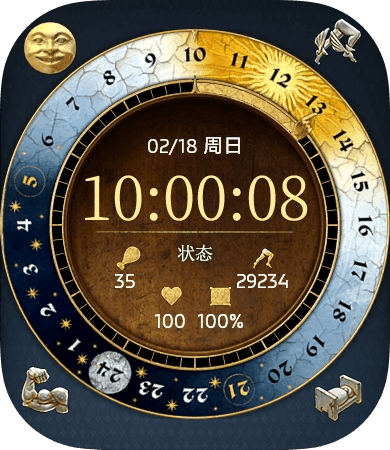
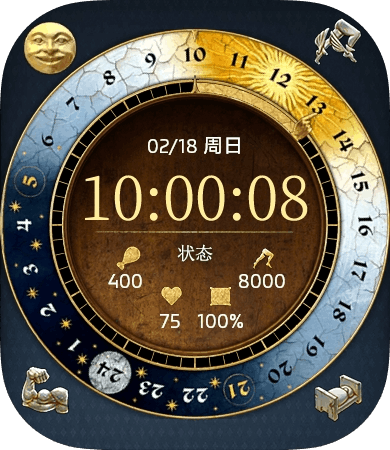
readme增加AOD的预览

Changed region(s): [[0.5846, 0.5911, 0.7385, 0.6533], [0.4, 0.6844, 0.4923, 0.7467], [0.2769, 0.5911, 0.3692, 0.6533]]

diff --git a/README.MD b/README.MD
@@ -1,8 +1,9 @@
 # 天国拯救2非官方表盘
-![alt text](src/assets/images/preview.png)
+![主表盘](preview/preview.png)
+![AOD](preview/previewAod.png)
 # 功能
 - ## 已支持
-  - 健康数据显示:卡路里、心率、电量、步数
+  - 数据显示:卡路里、心率、电量、步数
   - 24时盘随时间旋转
   - 秒进度环带有材质和手指 (刻度是60刻度，游戏是48刻)
   - 左上角的脸可以点击切换；每次开屏时会自动按电量切换
@@ -22,11 +23,11 @@
 ### rpk解包
  表盘文件rpk可以直接使用压缩工具打开并解压缩，里面的vru文件是vivo自创格式，可以使用本项目tools内的[解包脚本](tools/vru_extract.py)解开（感谢ai发力）使用为 `python vru_extract.py xxx.vru  out`，同时也有一个c语言版本的，使用vs开发终端cd到.c文件所在路径直接`cl vru_extract.c`编译即可获得exe产物，可将windows文件打开方式设为此exe
 ### 素材来源
-找到`KingdomComeDeliverance2\Data\IPL_GameData.pak`使用压缩工具打开
+在游戏文件夹内找到`KingdomComeDeliverance2\Data\IPL_GameData.pak`使用压缩工具(如7-Zip)打开
 | 路径                                                    |      内容      |
 | :------------------------------------------------------ | :------------ |
 | `IPL_GameData.pak\Libs\UI\Textures\SkipTime\`           | 时间盘主体素材 |
 | `IPL_GameData.pak\Libs\UI\Textures\pak\Icons\RPG`       |    一些图标    |
 | `IPL_GameData.pak\Libs\UI\Textures\Apse\reputation.dds` |      脸图      |
 
-可以使用免费的[Paint.NET](https://paint.net/download.html)来打开dds文件并提供dds文件的预览功能
+其中的DDS文件（DirectDraw Surface）是一种由微软与NVIDIA推广的纹理图像格式，可以使用免费的[Paint.NET](https://paint.net/download.html)来打开dds文件，设为默认打开工具后会提供dds文件的预览功能
